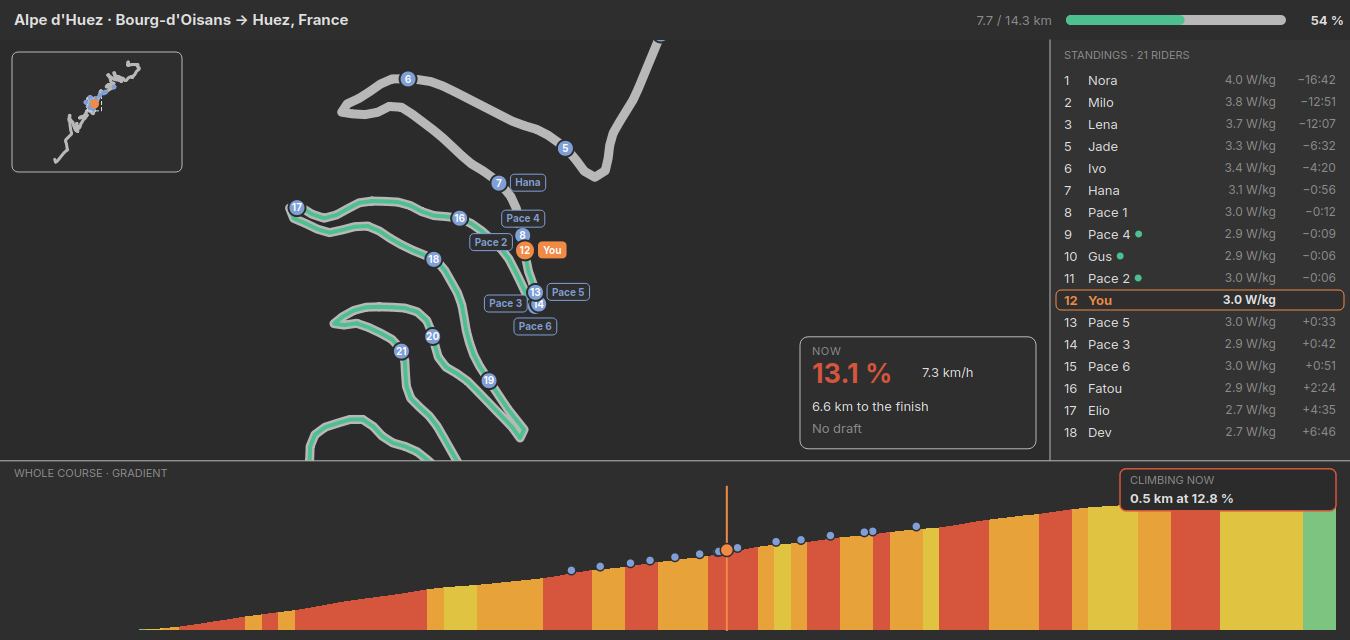
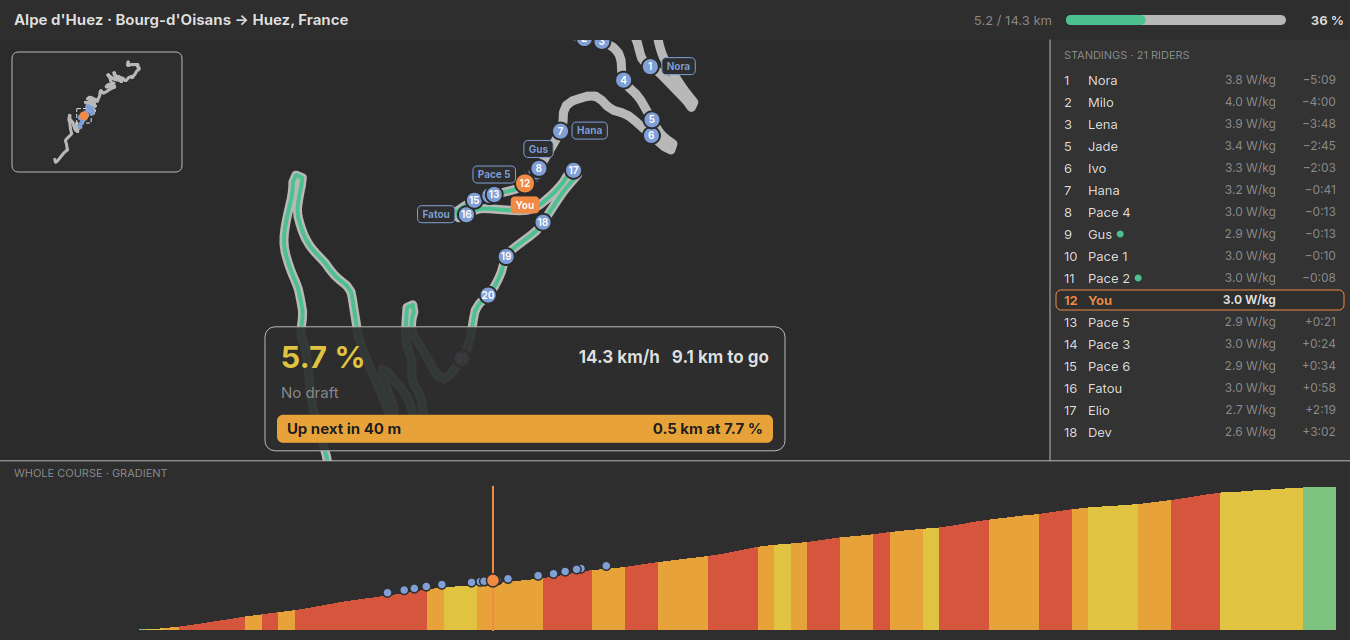
feat(courses): one start line, Start Course, clearer race card
- Everyone starts on the same line. The bots used to be lined up a bike
  length apart behind you, which the gap column showed as +0:08 and more
  before the start.
- The start button reads "Start Course" in a course.
- The race card moves to the bottom centre of the map, under your dot:
  the grade large and in its gradient colour, speed and km to go, the draft
  line, and the next steep section as a solid chip in its colour ("Up next
  in 400 m - 1.3 km at 9.9 %", or "Climbing now"). The old "Up next" box
  sat over the gradient profile with no background and was hard to read.
- The map centres on you in the space above the card.

diff --git a/src/race/raceview.cpp b/src/race/raceview.cpp
@@ -23,6 +23,8 @@ constexpr double kTopBarHeight = 40.0;
 constexpr double kStandingsWidth = 300.0;
 constexpr double kRowHeight = 22.0;
 constexpr double kNameTagRangeM = 250.0;
+constexpr double kNowCardWidth = 520.0;
+constexpr double kNowCardHeight = 124.0;
 constexpr double kZoomBehindM = 450.0;
 constexpr double kZoomAheadM = 450.0;
 constexpr double kMinZoomSpanM = 400.0;
@@ -218,10 +220,14 @@ void RaceView::paintRoute(QPainter &painter, const QRectF &area) const
     const QRectF bounds = zoomBounds();
     painter.save();
     painter.setClipRect(area);
+    // Centre the road in the space above the card, so it never hides you.
+    const QRectF mapArea = area;
+    const QRectF roadArea(mapArea.left(), mapArea.top(), mapArea.width(),
+                       std::max(120.0, nowCardRect(mapArea).top() - mapArea.top()));
 
     QPainterPath road;
     for (int index = 0; index < course.points().size(); ++index) {
-        const QPointF point = routePoint(course.points().at(index).distanceM, area, bounds);
+        const QPointF point = routePoint(course.points().at(index).distanceM, roadArea, bounds);
         index == 0 ? road.moveTo(point) : road.lineTo(point);
     }
     QPen roadPen(palette().color(QPalette::Mid), 9, Qt::SolidLine, Qt::RoundCap, Qt::RoundJoin);
@@ -235,22 +241,22 @@ void RaceView::paintRoute(QPainter &painter, const QRectF &area) const
     bool started = false;
     const int samples = static_cast<int>((you.distanceM - lapStart) / 20.0);
     for (int sample = 0; sample <= samples; ++sample) {
-        const QPointF point = routePoint(lapStart + sample * 20.0, area, bounds);
+        const QPointF point = routePoint(lapStart + sample * 20.0, roadArea, bounds);
         started ? ridden.lineTo(point) : ridden.moveTo(point);
         started = true;
     }
     if (started) {
-        ridden.lineTo(routePoint(you.distanceM, area, bounds));
+        ridden.lineTo(routePoint(you.distanceM, roadArea, bounds));
         painter.setPen(QPen(kRidden, 4, Qt::SolidLine, Qt::RoundCap, Qt::RoundJoin));
         painter.drawPath(ridden);
     }
 
-    const QPointF start = routePoint(0.0, area, bounds);
+    const QPointF start = routePoint(0.0, roadArea, bounds);
     painter.setPen(Qt::NoPen);
     painter.setBrush(palette().color(QPalette::Text));
     painter.drawEllipse(start, 5, 5);
     if (!course.isLoop()) {
-        const QPointF finish = routePoint(course.totalDistanceM(), area, bounds);
+        const QPointF finish = routePoint(course.totalDistanceM(), roadArea, bounds);
         painter.drawRect(QRectF(finish.x() - 6, finish.y() - 6, 12, 12));
     }
 
@@ -266,7 +272,7 @@ void RaceView::paintRoute(QPainter &painter, const QRectF &area) const
     const QFontMetricsF dotMetrics(dotFont);
     QVector<QRectF> placedTags;
 
-    auto dotCentre = [&](int index) { return routePoint(m_race->riders().at(index).distanceM, area, bounds); };
+    auto dotCentre = [&](int index) { return routePoint(m_race->riders().at(index).distanceM, roadArea, bounds); };
     auto drawDot = [&](int index) {
         const RaceSimulation::Rider &rider = m_race->riders().at(index);
         const QPointF centre = dotCentre(index);
@@ -375,6 +381,12 @@ void RaceView::paintOverview(QPainter &painter, const QRectF &mapArea) const
     }
 }
 
+QRectF RaceView::nowCardRect(const QRectF &mapArea) const
+{
+    const double width = std::min(kNowCardWidth, mapArea.width() - 24);
+    return {mapArea.center().x() - width / 2, mapArea.bottom() - kNowCardHeight - 10, width, kNowCardHeight};
+}
+
 void RaceView::paintNowPanel(QPainter &painter, const QRectF &mapArea) const
 {
     const RaceCourse &course = m_race->course();
@@ -382,50 +394,78 @@ void RaceView::paintNowPanel(QPainter &painter, const QRectF &mapArea) const
     if (m_race->youFinished())
         return;
 
-    const QRectF panel(mapArea.right() - 250, mapArea.bottom() - 124, 236, 112);
+    const QRectF card = nowCardRect(mapArea);
+    QColor fill = palette().color(QPalette::Base);
+    fill.setAlpha(235);
     painter.setPen(QPen(palette().color(QPalette::Mid), 1));
-    painter.setBrush(palette().color(QPalette::Base));
-    painter.drawRoundedRect(panel, 8, 8);
+    painter.setBrush(fill);
+    painter.drawRoundedRect(card, 10, 10);
 
-    QFont label = font();
-    label.setPointSizeF(font().pointSizeF() * 0.8);
-    label.setLetterSpacing(QFont::PercentageSpacing, 108);
+    const double distance = std::max(0.0, you.distanceM);
+    const double grade = course.gradeAt(distance);
+
+    // Row 1: the grade, big and coloured, then speed and distance to go.
     QFont big = font();
     big.setBold(true);
-    big.setPointSizeF(font().pointSizeF() * 2.0);
-
-    const double grade = course.gradeAt(std::max(0.0, you.distanceM));
-    painter.setFont(label);
-    painter.setPen(palette().color(QPalette::PlaceholderText));
-    painter.drawText(panel.adjusted(12, 8, -12, 0), Qt::AlignLeft | Qt::AlignTop, tr("NOW"));
-
+    big.setPointSizeF(font().pointSizeF() * 2.3);
     painter.setFont(big);
     painter.setPen(gradeColor(grade));
-    painter.drawText(panel.adjusted(12, 20, -12, 0), Qt::AlignLeft | Qt::AlignTop,
-                     QStringLiteral("%1 %").arg(grade * 100.0, 0, 'f', 1));
+    const QRectF gradeCell(card.left() + 16, card.top() + 8, 150, 44);
+    painter.drawText(gradeCell, Qt::AlignLeft | Qt::AlignVCenter, QStringLiteral("%1 %").arg(grade * 100.0, 0, 'f', 1));
 
-    painter.setFont(font());
+    QFont medium = font();
+    medium.setBold(true);
+    medium.setPointSizeF(font().pointSizeF() * 1.3);
+    painter.setFont(medium);
     painter.setPen(palette().color(QPalette::Text));
+    const QRectF statsCell(gradeCell.right(), card.top() + 8, card.right() - 16 - gradeCell.right(), 44);
     const double toGo = std::max(0.0, course.totalDistanceM() - you.distanceM);
-    painter.drawText(panel.adjusted(122, 28, -12, 0), Qt::AlignLeft | Qt::AlignTop,
-                     QStringLiteral("%1 km/h").arg(you.speedMps * 3.6, 0, 'f', 1));
-    painter.drawText(panel.adjusted(12, 62, -12, 0), Qt::AlignLeft | Qt::AlignTop,
-                     tr("%1 km to the finish").arg(toGo / 1000.0, 0, 'f', 1));
+    painter.drawText(statsCell, Qt::AlignRight | Qt::AlignVCenter,
+                     tr("%1 km/h   %2 km to go").arg(you.speedMps * 3.6, 0, 'f', 1).arg(toGo / 1000.0, 0, 'f', 1));
 
+    // Row 2: drafting.
     QFont draftFont = font();
+    draftFont.setPointSizeF(font().pointSizeF() * 1.1);
     draftFont.setBold(you.draftingBehind >= 0);
     painter.setFont(draftFont);
+    const QRectF draftCell(card.left() + 16, card.top() + 54, card.width() - 32, 24);
     if (you.draftingBehind >= 0) {
         painter.setPen(kDraft);
         const QString wheel = m_race->riders().at(you.draftingBehind).name;
-        painter.drawText(panel.adjusted(12, 84, -12, 0), Qt::AlignLeft | Qt::AlignTop,
+        painter.drawText(draftCell, Qt::AlignLeft | Qt::AlignVCenter,
                          QFontMetrics(draftFont).elidedText(
-                             tr("On %1's wheel · saving %2 %").arg(wheel).arg(qRound(you.powerSaving * 100)),
-                             Qt::ElideMiddle, static_cast<int>(panel.width() - 24)));
+                             tr("On %1's wheel \u00b7 saving %2 %").arg(wheel).arg(qRound(you.powerSaving * 100)),
+                             Qt::ElideMiddle, static_cast<int>(draftCell.width())));
     } else {
         painter.setPen(palette().color(QPalette::PlaceholderText));
-        painter.drawText(panel.adjusted(12, 84, -12, 0), Qt::AlignLeft | Qt::AlignTop, tr("No draft"));
+        painter.drawText(draftCell, Qt::AlignLeft | Qt::AlignVCenter, tr("No draft"));
     }
+
+    // Row 3: the next steep section, as a solid chip in its gradient colour.
+    const QRectF chip(card.left() + 12, card.bottom() - 36, card.width() - 24, 28);
+    const std::optional<RaceCourse::Climb> climb = course.nextClimb(distance);
+    QFont chipFont = font();
+    chipFont.setBold(true);
+    chipFont.setPointSizeF(font().pointSizeF() * 1.1);
+    painter.setFont(chipFont);
+    if (!climb) {
+        painter.setPen(palette().color(QPalette::PlaceholderText));
+        painter.drawText(chip.adjusted(4, 0, 0, 0), Qt::AlignLeft | Qt::AlignVCenter, tr("No climb in the next 3 km"));
+        return;
+    }
+    const QString when = climb->startsInM < 20.0
+        ? tr("Climbing now")
+        : tr("Up next in %1").arg(climb->startsInM >= 1000.0
+                                      ? QStringLiteral("%1 km").arg(climb->startsInM / 1000.0, 0, 'f', 1)
+                                      : QStringLiteral("%1 m").arg(qRound(climb->startsInM / 10.0) * 10));
+    const QString what = tr("%1 km at %2 %").arg(climb->lengthM / 1000.0, 0, 'f', 1)
+                                            .arg(climb->averageGrade * 100.0, 0, 'f', 1);
+    painter.setPen(Qt::NoPen);
+    painter.setBrush(gradeColor(climb->averageGrade));
+    painter.drawRoundedRect(chip, 6, 6);
+    painter.setPen(QColor(0x1d, 0x1d, 0x1d));
+    painter.drawText(chip.adjusted(10, 0, -10, 0), Qt::AlignVCenter | Qt::AlignLeft, when);
+    painter.drawText(chip.adjusted(10, 0, -10, 0), Qt::AlignVCenter | Qt::AlignRight, what);
 }
 
 void RaceView::paintStandings(QPainter &painter, const QRectF &area) const
@@ -573,30 +613,6 @@ void RaceView::paintProfile(QPainter &painter, const QRectF &area) const
     painter.setPen(QPen(palette().color(QPalette::Base), 1.5));
     painter.drawEllipse(QPointF(toX(yourDistance), toY(course.elevationAt(yourDistance)) - 3), 6.5, 6.5);
 
-    if (m_race->youFinished())
-        return;
-    const std::optional<RaceCourse::Climb> climb = course.nextClimb(yourDistance);
-    if (!climb)
-        return;
-    const QString heading = climb->startsInM < 20.0
-        ? tr("CLIMBING NOW")
-        : tr("UP NEXT · IN %1").arg(climb->startsInM >= 1000.0
-                                               ? QStringLiteral("%1 km").arg(climb->startsInM / 1000.0, 0, 'f', 1)
-                                               : QStringLiteral("%1 m").arg(qRound(climb->startsInM / 10.0) * 10));
-    const QString detail = tr("%1 km at %2 %").arg(climb->lengthM / 1000.0, 0, 'f', 1)
-                                              .arg(climb->averageGrade * 100.0, 0, 'f', 1);
-    const QRectF box(area.right() - 230, area.top() + 8, 216, 42);
-    painter.setPen(QPen(gradeColor(climb->averageGrade), 1.5));
-    painter.setBrush(palette().color(QPalette::Window));
-    painter.drawRoundedRect(box, 6, 6);
-    painter.setFont(label);
-    painter.setPen(palette().color(QPalette::PlaceholderText));
-    painter.drawText(box.adjusted(10, 5, -8, 0), Qt::AlignLeft | Qt::AlignTop, heading);
-    QFont strong = font();
-    strong.setBold(true);
-    painter.setFont(strong);
-    painter.setPen(palette().color(QPalette::Text));
-    painter.drawText(box.adjusted(10, 0, -8, -5), Qt::AlignLeft | Qt::AlignBottom, detail);
 }
 
 void RaceView::paintFinish(QPainter &painter, const QRectF &area) const

diff --git a/tests/workout_dialog/tst_workout_dialog_race.cpp b/tests/workout_dialog/tst_workout_dialog_race.cpp
@@ -4,6 +4,7 @@
  * difficulty, and stands still while the ride is paused.
  */
 #include <QApplication>
+#include <QPushButton>
 #include <QSignalSpy>
 #include <QStandardPaths>
 #include <QTest>
@@ -94,6 +95,11 @@ private slots:
         dialog->setRace(*course, RaceBot::FieldSettings());
         QVERIFY(dialog->race());
         QCOMPARE(dialog->race()->riders().size(), 21);
+        auto *startButton = dialog->findChild<QPushButton *>(QStringLiteral("pushButton_start"));
+        QVERIFY(startButton);
+        QCOMPARE(startButton->text(), QStringLiteral("Start Course"));
+        for (int index = 1; index < dialog->race()->riders().size(); ++index)
+            QCOMPARE(dialog->race()->gapToYouSec(index), 0.0);   // all on the start line
         dialog->enableTrainerControl();
 
         // Warming up: your W/kg and the bots' show, but nothing moves.

diff --git a/src/race/racesimulation.cpp b/src/race/racesimulation.cpp
@@ -6,7 +6,6 @@
 #include <utility>
 
 namespace {
-constexpr double kStartGridSpacingM = 1.5;
 constexpr double kMinGapSpeedMps = 1.0;
 }
 
@@ -38,8 +37,8 @@ void RaceSimulation::addBot(const RaceBot &bot, double cda)
     rider.massKg = bot.massKg() + kBotBikeMassKg;
     rider.cda = cda;
     rider.powerW = bot.wattsPerKg() * bot.massKg();   // on the start line, before the first step
-    // Line up behind you on the start, a bike length apart.
-    rider.distanceM = -kStartGridSpacingM * static_cast<double>(m_bots.size() + 1);
+    // Everyone starts together on the line.
+    rider.distanceM = 0.0;
     m_riders.append(rider);
     m_bots.append(bot);
 }

diff --git a/src/race/raceview.h b/src/race/raceview.h
@@ -28,6 +28,7 @@ private:
     void paintTopBar(QPainter &painter, const QRectF &area) const;
     void paintRoute(QPainter &painter, const QRectF &area) const;
     void paintOverview(QPainter &painter, const QRectF &mapArea) const;
+    QRectF nowCardRect(const QRectF &mapArea) const;
     void paintNowPanel(QPainter &painter, const QRectF &mapArea) const;
     void paintStandings(QPainter &painter, const QRectF &area) const;
     void paintProfile(QPainter &painter, const QRectF &area) const;

diff --git a/src/ui/workoutdialog.cpp b/src/ui/workoutdialog.cpp
@@ -3634,6 +3634,7 @@ void WorkoutDialog::setRace(const RaceCourse &course, const RaceBot::FieldSettin
     if (auto *videoLayout = qobject_cast<QBoxLayout*>(ui->widgetVideo->parentWidget()->layout()))
         videoLayout->insertWidget(videoLayout->indexOf(ui->widgetVideo), m_raceView, 1);
     ui->widget_workoutPlot->hide();
+    ui->widget_topMenu->setStartLabel(tr("Start Course"));
     showVideoPlayer(0);
 
     m_raceTimer = new QTimer(this);

diff --git a/src/ui/components/topmenuworkout.h b/src/ui/components/topmenuworkout.h
@@ -35,6 +35,8 @@ public:
     void setIntervalTime(QTime time);
     void setWorkoutRemainingTime(QTime time);
     void setWorkoutTime(QTime time);
+    /// The start button's label before the first start ("Start Workout").
+    void setStartLabel(const QString &label);
 
     void showIntervalRemaining(bool);
     void showWorkoutRemaining(bool);

diff --git a/src/ui/components/topmenuworkout.cpp b/src/ui/components/topmenuworkout.cpp
@@ -402,6 +402,11 @@ void TopMenuWorkout::setWorkoutNameLabel(QString label) {
 }
 
 
+void TopMenuWorkout::setStartLabel(const QString &label) {
+    ui->pushButton_start->setText(label);
+}
+
+
 void TopMenuWorkout::setButtonStartPaused(bool showPause) {
 
 
